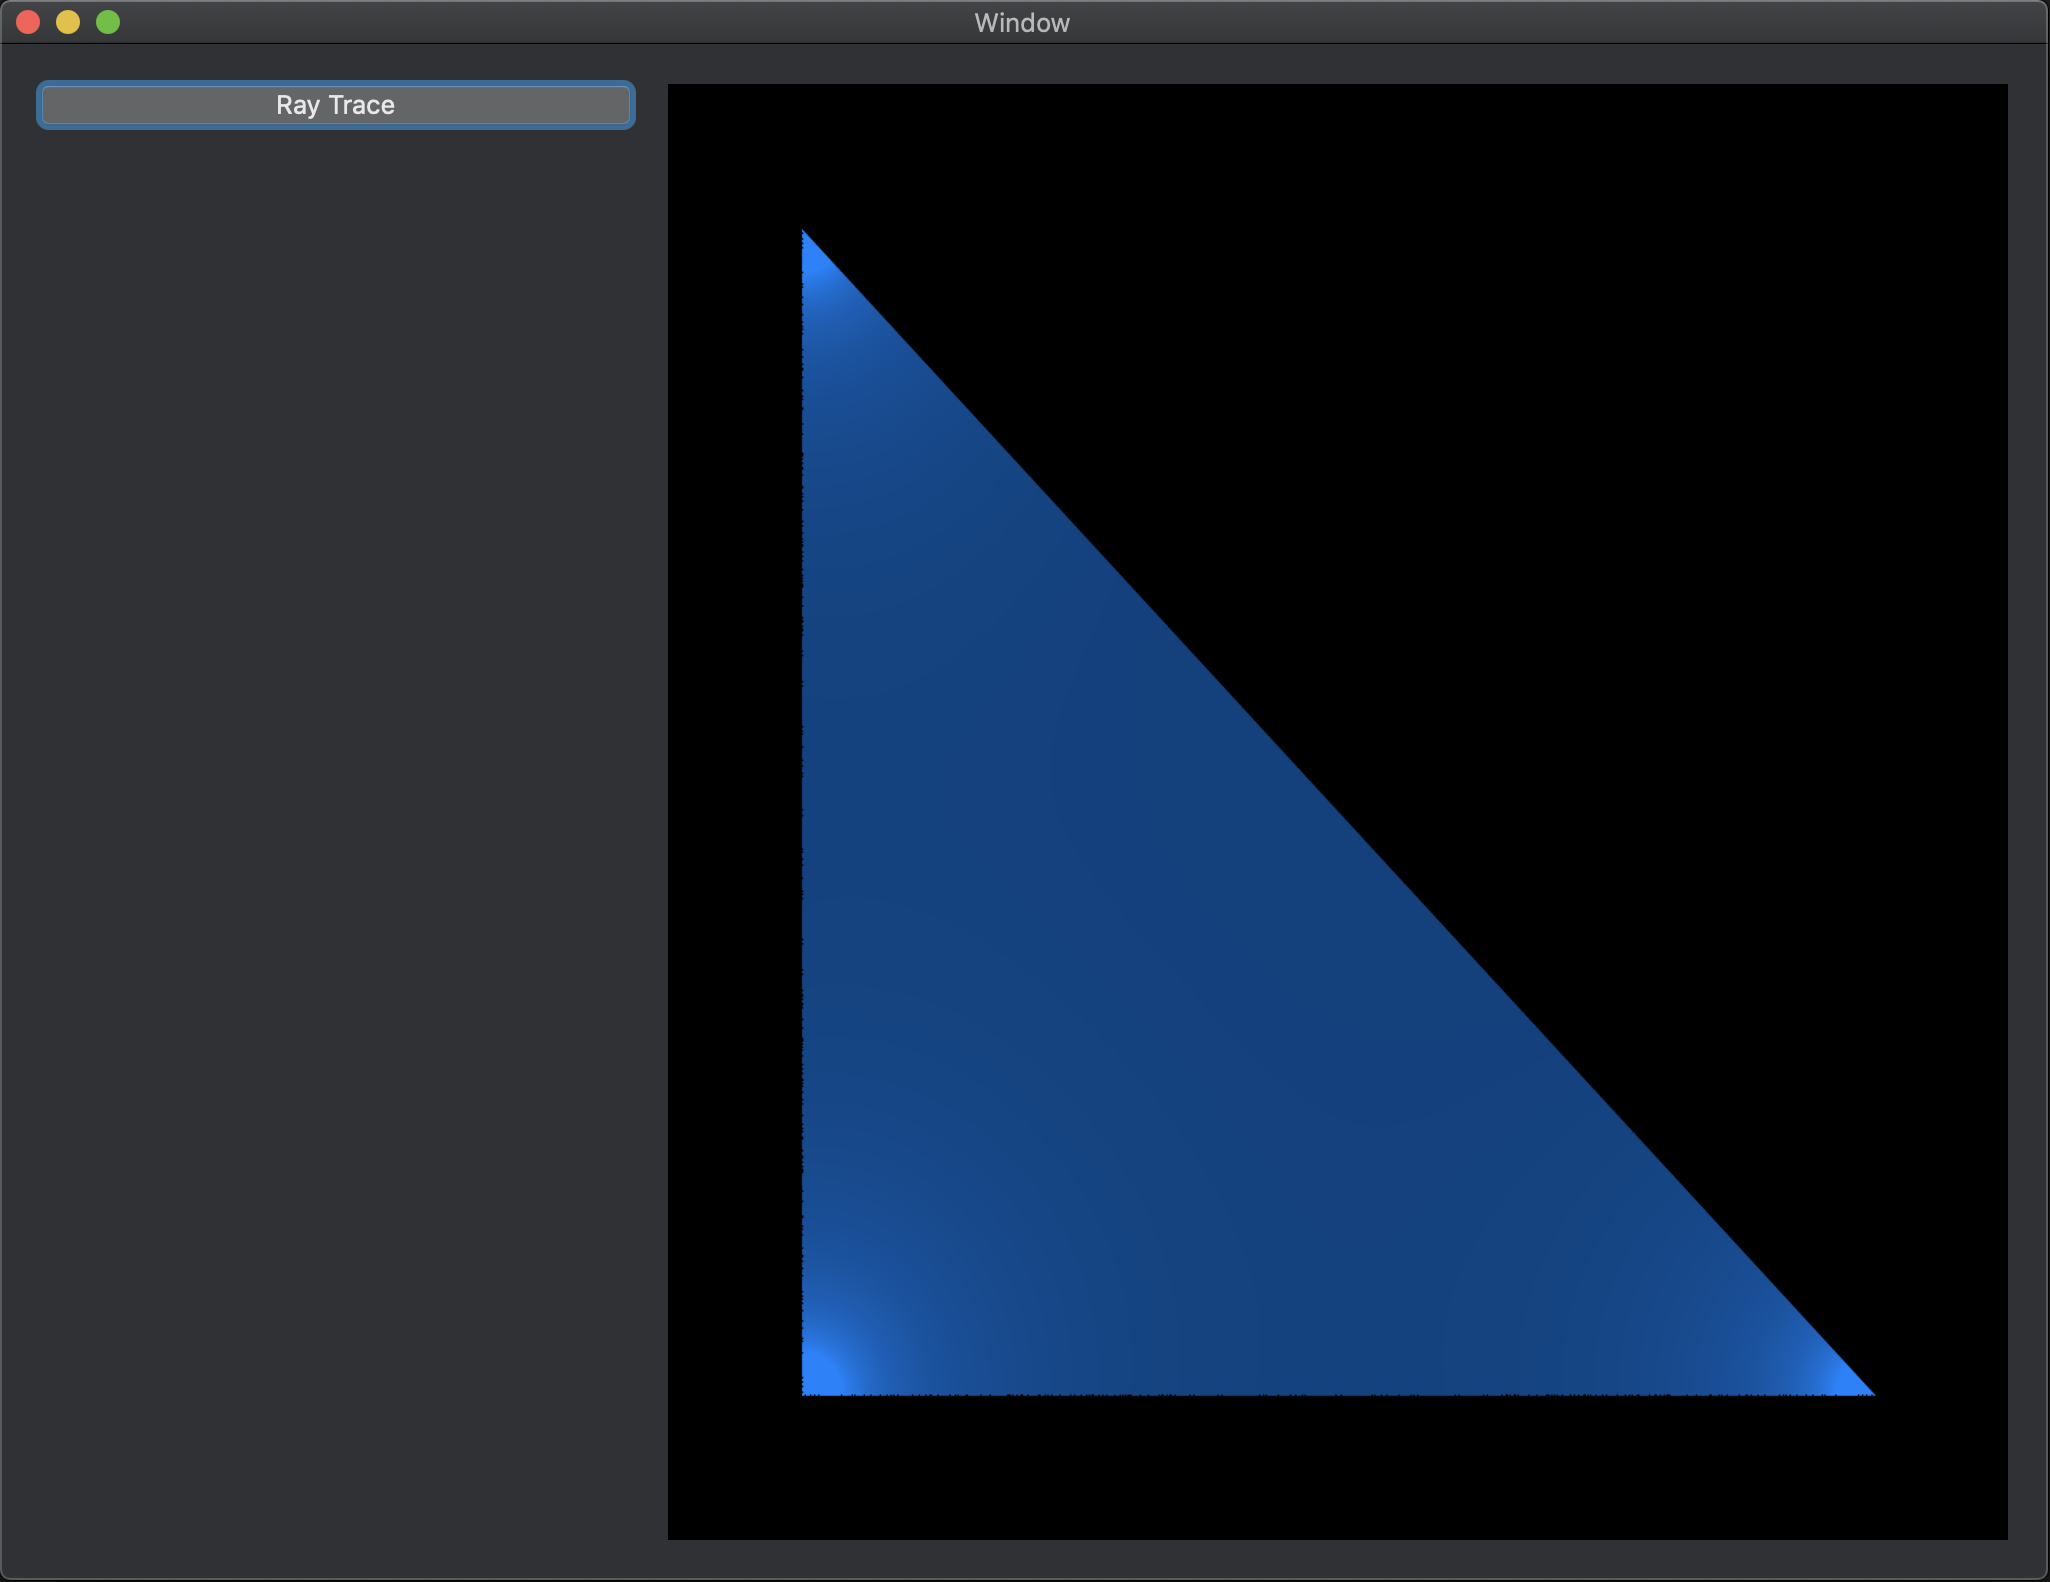
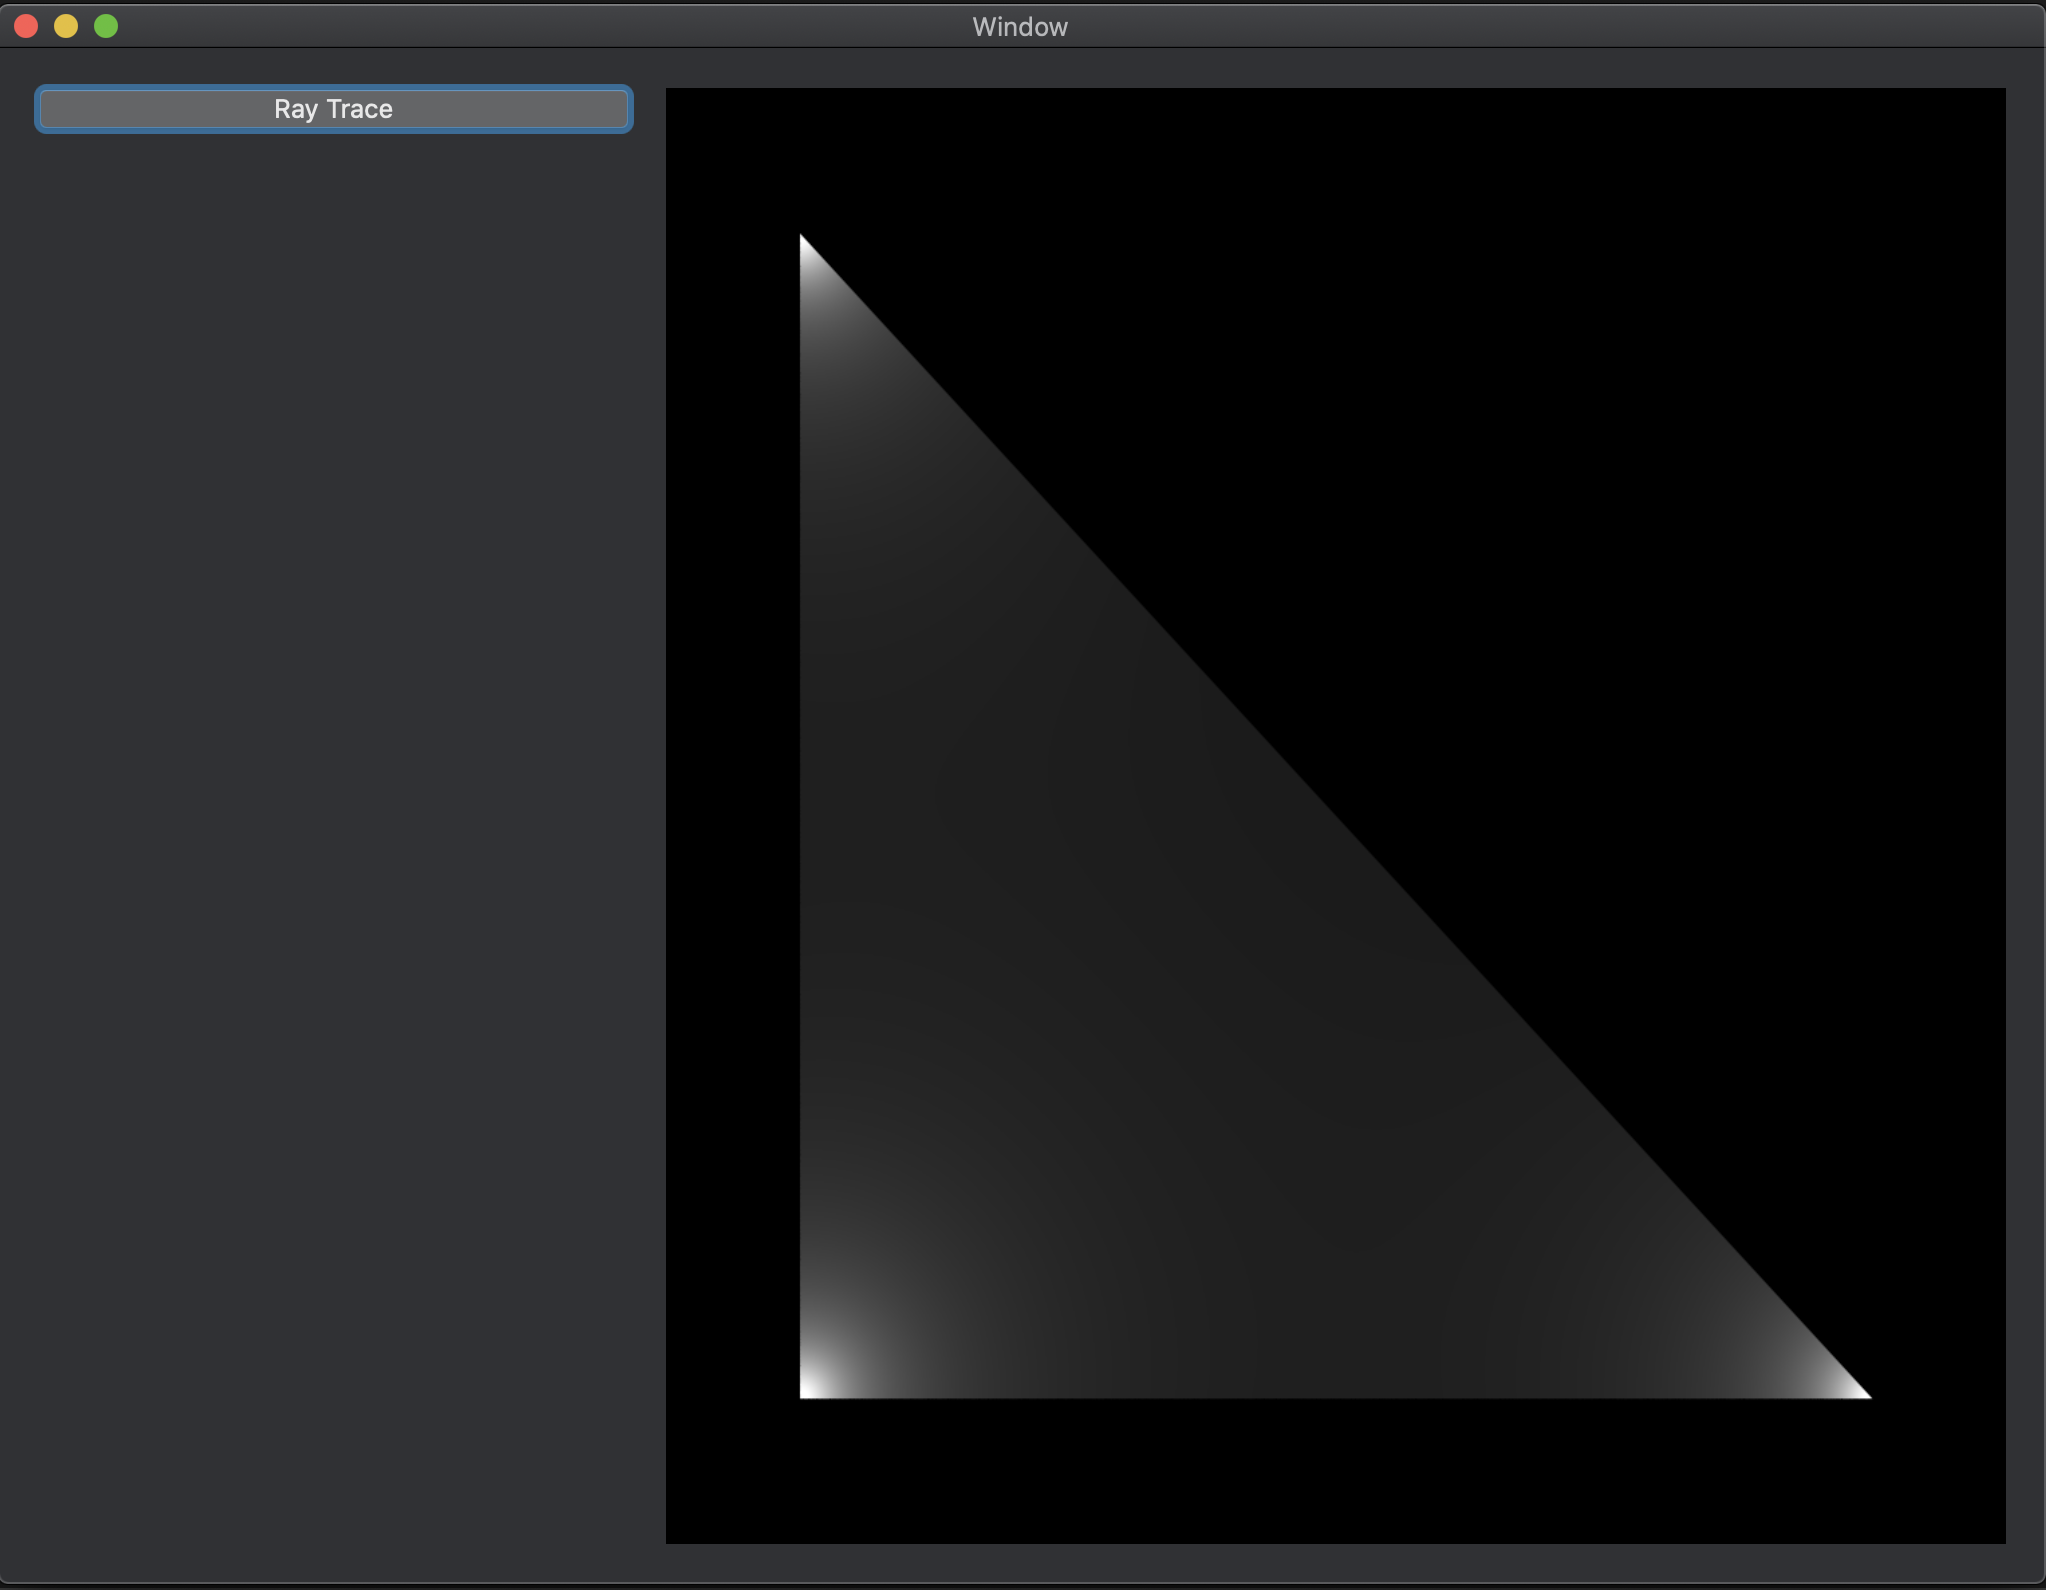
Remove some debug spew and add primitive subsampling/antialiasing

Changed region(s): [[0.3695, 0.1549, 0.9238, 0.8982], [0.0, 0.0, 1.0, 1.0]]

diff --git a/RayTraceUI/RayTracingFunctions.swift b/RayTraceUI/RayTracingFunctions.swift
@@ -73,84 +73,79 @@ func raytraceWorld(camera : v3d,
 
     let ul : v3d = imageCenterCoordinate - hpc + vpc
 
-    func pixLocation(_ i : Int, _ j : Int) -> v3d {
-        let horizOffset = u * Double(i)
-        let vertOffset = v * Double(j)
+    func pixLocation(_ i : Double, _ j : Double) -> v3d {
+        let horizOffset = u * i
+        let vertOffset = v * j
         return ul + horizOffset - vertOffset
     }
     
     let columnMultiplier = imageWidth * 4
+    let subdivision : Double = 0.25
 
     for i in 0..<imageWidth {
         let rowOffset = i * 4
         for j in 0..<imageHeight {
-            let cameraToPixelVector = pixLocation(i, j) - camera
-            let c2punit = simd_normalize(cameraToPixelVector)
-
             let firstByte = j * columnMultiplier + rowOffset
-            var intersections : [Intersection] = []
-            for o in objects {
-                o.intersections(origin: camera, direction: c2punit, intersections: &intersections)
-            }
+            var pixelValues : [Double] = []
 
-            if intersections.isEmpty {
-                outputBitmap[firstByte] = 0
-                outputBitmap[firstByte + 1] = 0
-                outputBitmap[firstByte + 2] = 0
-                outputBitmap[firstByte + 3] = 255
-                continue
-            }
+            for x in stride(from: Double(i), to: Double(i+1), by: subdivision) {
+                for y in stride(from: Double(j), to: Double(j+1), by: subdivision) {
 
-            intersections.sort() { $0.parameter <= $1.parameter }
+                    let cameraToPixelVector = pixLocation(x, y) - camera
+                    let c2punit = simd_normalize(cameraToPixelVector)
+                    var intersections : [Intersection] = []
+                    traceRay(origin: camera, direction: c2punit, objects: objects, intersections: &intersections)
 
-            // Take closest intersection
-            let i1 = intersections[0]
-
-            guard let normalAtIntersection = i1.normal else {
-                continue
-            }
-
-            var intensityMultiplier = 0.0
-            for l in lights {
-                let i1ToPl = l.location - i1.point
-                let pl = simd_normalize(i1ToPl)
-                let intensity = simd_dot(pl, normalAtIntersection)
-
-                if intensity <= 0 {
-                    continue
-                }
-
-                // Now trace another ray to find objects in between current point and light.
-                var objLightIntersections : [Intersection] = []
-                traceRay(origin: i1.point, direction: pl, objects: objects, intersections: &objLightIntersections)
-                if objLightIntersections.count > 0 {
-                    print("point->light intersection parameter: \(objLightIntersections[0].parameter)")
-                    continue
-                }
-                if intensity > 0 {
-                    intensityMultiplier += intensity
-                    if intensityMultiplier >= 1.0 {
-                        intensityMultiplier = 1.0
-                        break
+                    guard !intersections.isEmpty else {
+                        pixelValues.append(0)
+                        continue
                     }
+
+                    intersections.sort() { $0.parameter <= $1.parameter }
+
+                    // Take closest intersection
+                    let i1 = intersections[0]
+
+                    guard let normalAtIntersection = i1.normal else {
+                        continue
+                    }
+
+                    var intensityMultiplier = 0.0
+                    for l in lights {
+                        let i1ToPl = l.location - i1.point
+                        let pl = simd_normalize(i1ToPl)
+                        let intensity = simd_dot(pl, normalAtIntersection)
+
+                        if intensity <= 0 {
+                            continue
+                        }
+
+                        // Now trace another ray to find objects in between current point and light.
+                        var objLightIntersections : [Intersection] = []
+                        traceRay(origin: i1.point, direction: pl, objects: objects, intersections: &objLightIntersections)
+                        if objLightIntersections.count > 0 {
+                            print("point->light intersection parameter: \(objLightIntersections[0].parameter)")
+                            continue
+                        }
+                        if intensity > 0 {
+                            intensityMultiplier += intensity
+                            if intensityMultiplier >= 1.0 {
+                                intensityMultiplier = 1.0
+                                break
+                            }
+                        }
+                    }
+
+                    pixelValues.append(255 * intensityMultiplier)
                 }
             }
+            var averageValue : Double = pixelValues.reduce(0, +)
 
-            var rgbValue = UInt8(255 * intensityMultiplier)
-            if intensityMultiplier > 0 {
-                print("intensity \(intensityMultiplier)")
-            }
-            let (val, of) = rgbValue.addingReportingOverflow(ambientLight)
-
-            if of {
-                rgbValue = 255
-            } else {
-                rgbValue = val
-            }
-
-            outputBitmap[firstByte] = 0
-            outputBitmap[firstByte + 1] = rgbValue / 2
-            outputBitmap[firstByte + 2] = rgbValue
+            averageValue = averageValue / Double(pixelValues.count)
+            let avg : UInt8 = UInt8(averageValue)
+            outputBitmap[firstByte] = avg
+            outputBitmap[firstByte + 1] = avg
+            outputBitmap[firstByte + 2] = avg
             outputBitmap[firstByte + 3] = 255
         }
     }

diff --git a/RayTraceUI/Renderables.swift b/RayTraceUI/Renderables.swift
@@ -76,9 +76,6 @@ struct Triangle : RayIntersectable {
             if simd_dot(a, normal) >= 0 &&
                 simd_dot(b, normal) >= 0 &&
                 simd_dot(c, normal) >= 0 {
-//                print("normal: \(normal)")
-//                print("pointnormal: \(n)")
-                print("intersection: \(point)")
                 intersections.append(Intersection(atPoint: point, withNormal: normal, parameter: intersectionParameter, object: self))
             }
         }

diff --git a/README.md b/README.md
@@ -1,3 +1,7 @@
-Simple ray tracer in Swift. Only does sphere intersections right now.
+Simple ray tracer in Swift.
 
+## Example image
 ![Sample ray traced sphere](RayTraceExample.png)
+
+## Comparison with/without antialiasing
+![With and without antialiasing](Antialiasing%20comparison.png)
